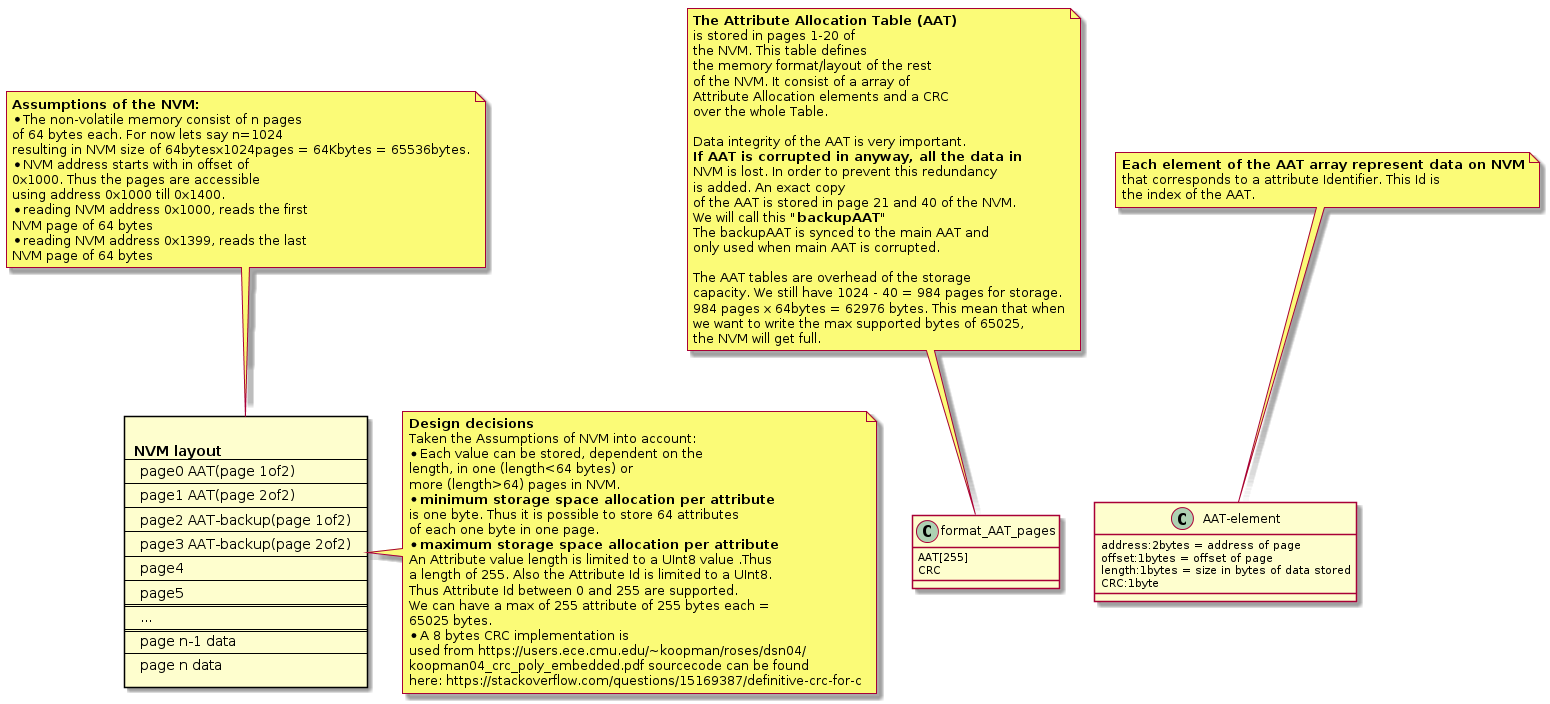
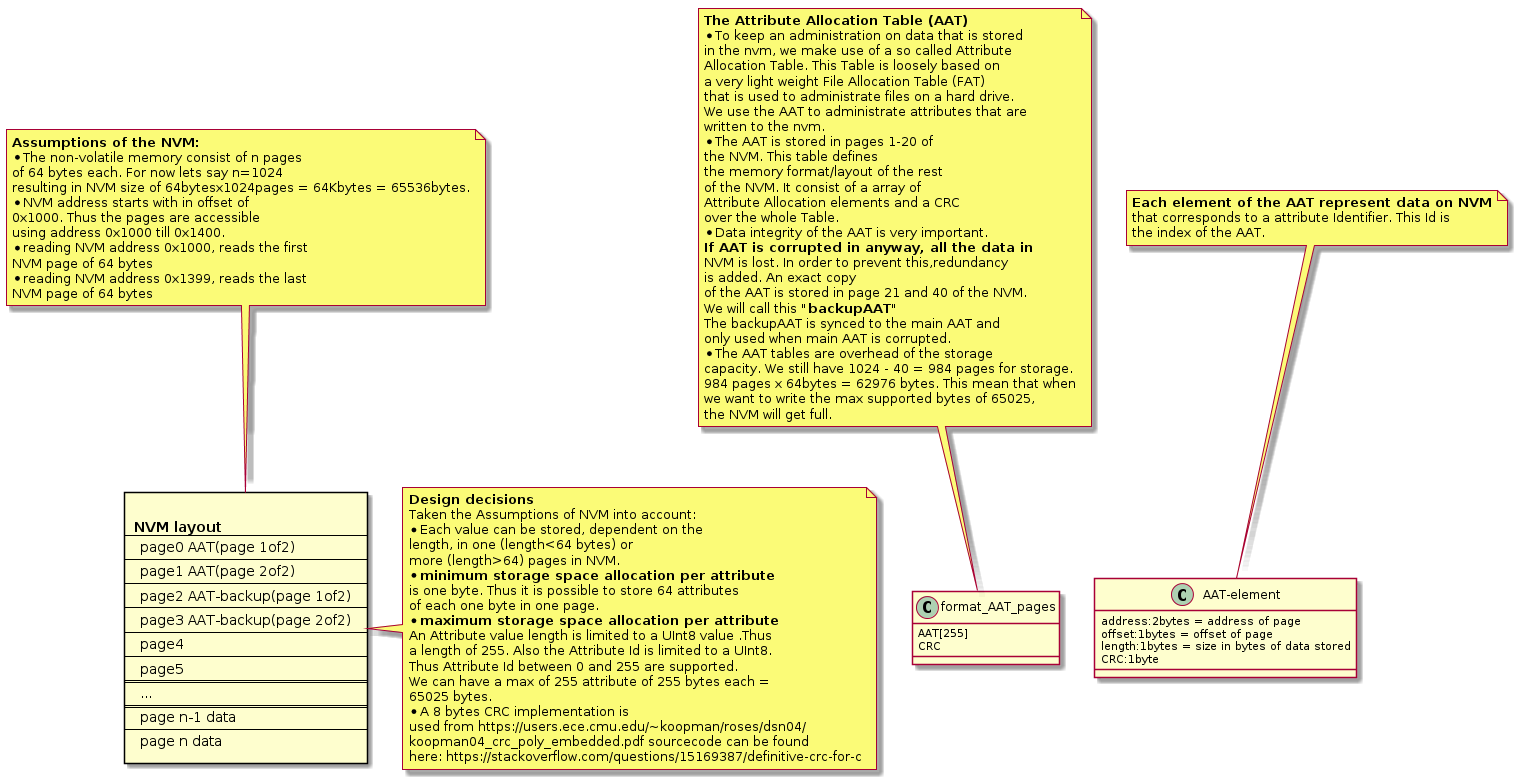
doc: updated documentation

Changed region(s): [[0.0, 0.0, 1.0, 1.0]]

diff --git a/nvm_attribute_store/test/test_nvm_attributeStore.cpp b/nvm_attribute_store/test/test_nvm_attributeStore.cpp
@@ -238,7 +238,7 @@ TEST_F(storage, GivenEmptyAat_WhenSetAndGetAttributeOfOneByte_ThenValueShouldBeT
 	ExpectAttributeAllocInfo(attributeId, 0, 0, length_to_set, Crc8_getCrc(&data_to_set, length_to_set));
 }
 
-TEST_F(storage, GivenAttributeSetInNvm_WhenReuingAttribbuteId_ThenOldDataIsOverwritten)
+TEST_F(storage, GivenAttributeSetInNvm_WhenReusingAttribbuteId_ThenOldDataIsOverwritten)
 {
 	// given attribute set in Nvm
 	EXPECT_EQ(OK, SetupEmptyAat());
@@ -330,6 +330,47 @@ TEST_F(storage, GivenAttributeOfOneByteDeleted_WhenSetNewAttributeOfOneByte_Then
 	ExpectAttributeAllocInfo(5, 0, 2, length_to_set, Crc8_getCrc(&data_to_set5, length_to_set));
 }
 
+
+TEST_F(storage, GivenAttributeOfOneByteDeleted_WhenSetNewAttributeOfTwoByte_ThenNewAttributeWillBeWrittenInAddressOfNextAvaiableSpace)
+{
+	// Given attribute of one byte deleted
+	EXPECT_EQ(OK, SetupEmptyAat());
+
+	UInt8 data_to_set1 = 'a';
+	UInt8 data_to_set2 = 'b';
+	UInt8 data_to_set3 = 'c';
+	UInt8 data_to_set4 = 'd';
+	UInt8 length_to_set_1_4  = 1;
+
+	UInt8 data_to_set5[2] = {'e', 'f'};
+	UInt8 length_to_set_5  = 2;
+
+	EXPECT_EQ(OK, gpNvm_SetAttribute(1, length_to_set_1_4, &data_to_set1));
+	EXPECT_EQ(OK, gpNvm_SetAttribute(2, length_to_set_1_4, &data_to_set2));
+	EXPECT_EQ(OK, gpNvm_SetAttribute(3, length_to_set_1_4, &data_to_set3));
+	EXPECT_EQ(OK, gpNvm_SetAttribute(4, length_to_set_1_4, &data_to_set4));
+
+	ExpectDataAndLengthOfAttributeId(1, length_to_set_1_4, &data_to_set1);
+	ExpectDataAndLengthOfAttributeId(2, length_to_set_1_4, &data_to_set2);
+	ExpectDataAndLengthOfAttributeId(3, length_to_set_1_4, &data_to_set3);
+	ExpectDataAndLengthOfAttributeId(4, length_to_set_1_4, &data_to_set4);
+
+	ExpectAttributeAllocInfo(1, 0, 0, length_to_set_1_4, Crc8_getCrc(&data_to_set1, length_to_set_1_4));
+	ExpectAttributeAllocInfo(2, 0, 1, length_to_set_1_4, Crc8_getCrc(&data_to_set2, length_to_set_1_4));
+	ExpectAttributeAllocInfo(3, 0, 2, length_to_set_1_4, Crc8_getCrc(&data_to_set3, length_to_set_1_4));
+	ExpectAttributeAllocInfo(4, 0, 3, length_to_set_1_4, Crc8_getCrc(&data_to_set4, length_to_set_1_4));
+
+	gpNvm_DeleteAttribute(3);
+
+	// When set new attribute of one byte
+	EXPECT_EQ(OK, gpNvm_SetAttribute(5, length_to_set_5, (UInt8*) &data_to_set5));
+
+	// Then new attribute will be written in next available address
+	ExpectDataAndLengthOfAttributeId(5, length_to_set_5, (UInt8*) &data_to_set5);
+	ExpectAttributeAllocInfo(5, 0, 4, length_to_set_5, Crc8_getCrc((UInt8*) &data_to_set5, length_to_set_5));
+}
+
+
 TEST_F(storage, GivenNonEmptyAat_WhenSetAndGetAttributeOfOneByteArray_ThenValueShouldBeTheSame)
 {
 	EXPECT_EQ(OK, SetupEmptyAat());
@@ -408,6 +449,34 @@ TEST_F(storage, GivenGivenFullNvm_WhenSetNewDataThatWillNotFit_ThenNvmFullErrorI
 	// When set new data that will not fit
 	// Then nvm full error is returned
 	EXPECT_EQ(FULL, gpNvm_SetAttribute(i, length_to_set, data_to_set));	 //247th of 255 byte write nvm is full
+}
+
+TEST_F(storage, GivenEmptyAat_WhenSetAndGetAttributeOfTypeGpTestData_ThenValueShouldBeTheSame)
+{
+	EXPECT_EQ(OK, SetupEmptyAat());
+
+	gpTestData_t data_to_set = {1, 2, 3, {'h','a','l','l','o',' ','w','e','r','e','l','d','!','1','2','3','4','5','6','7'}};
+	UInt8 length_to_set  = sizeof(data_to_set);
+
+	UInt8 attributeId = 1;
+
+	EXPECT_EQ(OK, gpNvm_SetAttribute(attributeId, length_to_set, (UInt8*) &data_to_set));
+	ExpectDataAndLengthOfAttributeId(attributeId, length_to_set, (UInt8*) &data_to_set);
+	ExpectAttributeAllocInfo(attributeId, 0, 0, length_to_set, Crc8_getCrc((UInt8*) &data_to_set, length_to_set));
+}
+
+TEST_F(storage, GivenEmptyAat_WhenSetAndGetAttributeOfTypeUInt32_ThenValueShouldBeTheSame)
+{
+	EXPECT_EQ(OK, SetupEmptyAat());
+
+	UInt32 data_to_set = 0xA5A5A5A5;
+	UInt8 length_to_set  = sizeof(data_to_set);
+
+	UInt8 attributeId = 1;
+
+	EXPECT_EQ(OK, gpNvm_SetAttribute(attributeId, length_to_set, (UInt8*) &data_to_set));
+	ExpectDataAndLengthOfAttributeId(attributeId, length_to_set, (UInt8*) &data_to_set);
+	ExpectAttributeAllocInfo(attributeId, 0, 0, length_to_set, Crc8_getCrc((UInt8*) &data_to_set, length_to_set));
 }
 
 

diff --git a/doc/design.md b/doc/design.md
@@ -91,23 +91,28 @@ together structs{
 
 note top of format_AAT_pages
 	<b>The Attribute Allocation Table (AAT)
-	is stored in pages 1-20 of
+	* To keep an administration on data that is stored 
+	in the nvm, we make use of a so called Attribute
+	Allocation Table. This Table is loosely based on
+	a very light weight File Allocation Table (FAT) 
+	that is used to administrate files on a hard drive. 
+	We use the AAT to administrate attributes that are
+	written to the nvm.
+	* The AAT is stored in pages 1-20 of
 	the NVM. This table defines
 	the memory format/layout of the rest
 	of the NVM. It consist of a array of
 	Attribute Allocation elements and a CRC
 	over the whole Table.
-
-	Data integrity of the AAT is very important.
+	* Data integrity of the AAT is very important.
 	<b>If AAT is corrupted in anyway, all the data in
-	NVM is lost. In order to prevent this redundancy
+	NVM is lost. In order to prevent this,redundancy
 	is added. An exact copy
 	of the AAT is stored in page 21 and 40 of the NVM.
 	We will call this <b>"backupAAT"
 	The backupAAT is synced to the main AAT and
 	only used when main AAT is corrupted.
-
-	The AAT tables are overhead of the storage
+	* The AAT tables are overhead of the storage
 	capacity. We still have 1024 - 40 = 984 pages for storage.
 	984 pages x 64bytes = 62976 bytes. This mean that when
 	we want to write the max supported bytes of 65025,
@@ -115,7 +120,7 @@ note top of format_AAT_pages
 end note
 
 note top of AAT-element
-	<b>Each element of the AAT array represent data on NVM
+	<b>Each element of the AAT represent data on NVM
 	that corresponds to a attribute Identifier. This Id is
 	the index of the AAT.
 end note
@@ -128,7 +133,6 @@ note as N1
 	* The init, getter and setter will be Mutex locked to prevent
 	access to the same data at the same time by different
 	threads. This will prevent data corruption.
-	For this implementation a stub will be used.
 	* At this moment we the nvm component is tested on a
 	semi unit-test/integration test level. In the future
 	these levels should be split up into a unit-test level tests
@@ -140,12 +144,16 @@ end note
 @enduml
 
 @startuml gpNvm_Init
+note left of gpAttrStore
+	Initializing the attribute storage component by reading 
+	in the AAT that is stored in nmv. An backup AAT is available
+	in case the main AAT is currupted.
+end note
 
 database gpNvm
 participant CrcUtil
 participant gpAttrStore
 participant Application
-participant MutexUtil
 
 Application -> gpAttrStore : gpNvm_Init()
 loop for each AAT_NvmAdress in which AAT is stored
@@ -153,11 +161,11 @@ loop for each AAT_NvmAdress in which AAT is stored
 end
 gpAttrStore -> gpAttrStore: extract AAT from Buffer
 
-gpAttrStore -> CrcUtil : getCrc(AAT, sizeof(AAT))
+gpAttrStore <-> CrcUtil : getCrc(AAT, sizeof(AAT))
 alt CrcUtil OK
 	gpAttrStore -> Application : return OK
 else
- 	note right of gpAttrStore
+ 	note left of gpAttrStore
 	Here NVM has been corrupted
 	and read in redundancy backup AAT.
 	end note
@@ -165,12 +173,12 @@ else
 		gpAttrStore <-> gpNvm : Read(AAT_Backup_NvmAdress, Buffer[..]))
 	end
 	gpAttrStore -> gpAttrStore: extract AAT from Buffer
-	gpAttrStore -> CrcUtil : getCrc(AAT, sizeof(AAT))
+	gpAttrStore <-> CrcUtil : getCrc(AAT, sizeof(AAT))
 	alt CrcUtil OK
 		loop for each AAT_NvmAdress in which AAT is stored
 			gpAttrStore -> gpNvm : Write(AAT_NvmAdress, Buffer[..])
 		end
-		note right of gpAttrStore
+		note left of gpAttrStore
 		Also store correct AAT in
 		AAT_NvmAdress, overwriting the
 		corrupted AAT
@@ -187,54 +195,67 @@ end
 @enduml
 
 @startuml gpNvm_GetAttribute
+note left of gpAttrStore
+	Gets the attribute data stored in nvm with a 
+	attribute id.
+end note
 
 database gpNvm
 participant CrcUtil
 participant gpAttrStore
 participant Application
-participant MutexUtil
 
 Application -> gpAttrStore : gpNvm_GetAttribute(id, &length, &value);
-	loop foreach element in AAT
-	 	note right of gpAttrStore
-		loop through all elements of AAT
-		until it finds element with same
-		attribute Id
-		end note
-		alt element.attrId == id
-			gpAttrStore <-> gpNvm: Read(element.adress, &value, element.size);
-			gpAttrStore <-> gpAttrStore: &length = element.size
-			gpAttrStore -> CrcUtil : getCrc(&value, element.size);
-			alt CrcUtil OK
-				gpAttrStore -> Application : return OK
-			else
-				gpAttrStore -> Application : return NOK
-			end
+ 	note right of gpAttrStore
+		The attribute Id is used as an index of the 
+		AAT.  
+	end note
+	gpAttrStore -> gpAttrStore : AAT_t entry = AttrAllocTable[id]
+	group ReadAttribute(startAdress, &pValue, &pLength)
+		gpAttrStore -> gpAttrStore: address = entry.startAdress
+		alt address == firstPage
+			gpAttrStore -> gpAttrStore: Read(address, Buffer)
+			gpAttrStore -> gpAttrStore: copyFromBufferToValuePointer(startOffset, entry.length || PAGE_SIZE, pValue)
+		else address == middle
+			gpAttrStore -> gpAttrStore:  Read(address, Buffer)
+			gpAttrStore -> gpAttrStore: copyFromBufferToValuePointer(0, PAGE_SIZE, pValue)
+		else address == endAdress
+			gpAttrStore -> gpAttrStore: Read(address, Buffer))
+			gpAttrStore -> gpAttrStore: copyFromBufferToValuePointer(0, bytes_left, pValue)
 		end
+	end
+	gpAttrStore <-> CrcUtil: crc = getCrc(&pValue, length))
+	alt crc == entry.crc
+		gpAttrStore -> Application: OK
+	else 
+		gpAttrStore -> Application: NOK
 	end
 @enduml
 
 @startuml gpNvm_SetAttribute
+note left of gpAttrStore
+	Sets the attribute data in nvm with a 
+	attribute id and a length.
+end note
 
 database gpNvm
 participant CrcUtil
 participant gpAttrStore
 participant Application
-participant MutexUtil
 
 Application -> gpAttrStore : gpNvm_SetAttribute(id, length, &value);
 	note right of gpAttrStore
 		loop through AAT to find first
-		available adress that fits the
-		lenght of data you want to store.
+		available address that fits the
+		length of data you want to store.
 	end note
 	group calculateNextFreeAdressAndOffsetThatFitsNewAttribute()
 		gpAttrStore -> gpAttrStore: sortedAAT = sortByAdress(AAT)
-		note right: from lowest to highst adress
+		note right: from lowest to highest address
 		loop foreach element in sortedAAT
 			alt element.next.startOfAttributeInBytes - element.startOfAttributeInBytes >= length
 				note left of gpAttrStore
-					startOfAttributeInBytes = (adress x pagesize) + offset
+					startOfAttributeInBytes = (address x pagesize) + offset
 				end note
 				gpAttrStore -> gpAttrStore: element
 			end
@@ -249,15 +270,15 @@ Application -> gpAttrStore : gpNvm_SetAttribute(id, length, &value);
 			data from other attribute in the first
 			and last page
 		end note
-		alt adress == firstPage
-			gpAttrStore -> gpAttrStore: adress = startAdress
-			gpAttrStore -> gpAttrStore: Read(adress, Buffer))
+		alt address == firstPage
+			gpAttrStore -> gpAttrStore: address = startAdress
+			gpAttrStore -> gpAttrStore: Read(address, Buffer))
 			gpAttrStore -> gpAttrStore: WriteBuffer(startOffset, Buffer, pValue, PAGE)
 			gpAttrStore -> gpAttrStore: Write((startAdress, Buffer))
-		else adress == middle
-			gpAttrStore -> gpAttrStore: WriteBuffer(adress, Buffer)
-		else adress endAdress
-			gpAttrStore -> gpAttrStore: Read(adress, Buffer))
+		else address == middle
+			gpAttrStore -> gpAttrStore: WriteBuffer(address, Buffer)
+		else address == endAdress
+			gpAttrStore -> gpAttrStore: Read(address, Buffer))
 			gpAttrStore -> gpAttrStore: WriteBuffer(0, Buffer, pValue, PAGE)
 			gpAttrStore -> gpAttrStore: Write((startAdress, Buffer))
 		end
@@ -277,8 +298,6 @@ Application -> gpAttrStore : gpNvm_SetAttribute(id, length, &value);
 		Table with the new entry
 	end note
 	gpAttrStore -> Application : Return OK
-
-@enduml
 
 @enduml
 */

diff --git a/README.md b/README.md
@@ -1,0 +1,21 @@
+![alt text](https://github.com/kevinwong1983/AttributeAllocationTable/blob/master/doc/FunctionalRequirment.png)
+
+---
+
+![alt text](https://github.com/kevinwong1983/AttributeAllocationTable/blob/master/doc/DesignAndAssumption.png)
+
+---
+
+![alt text](https://github.com/kevinwong1983/AttributeAllocationTable/blob/master/doc/gpNvm_Init.png)
+
+---
+
+![alt text](https://github.com/kevinwong1983/AttributeAllocationTable/blob/master/doc/gpNvm_SetAttribute.png)
+
+---
+
+![alt text](https://github.com/kevinwong1983/AttributeAllocationTable/blob/master/doc/gpNvm_GetAttribute.png)
+
+---
+
+![alt text](https://github.com/kevinwong1983/AttributeAllocationTable/blob/master/doc/FutureImprovements.png)
